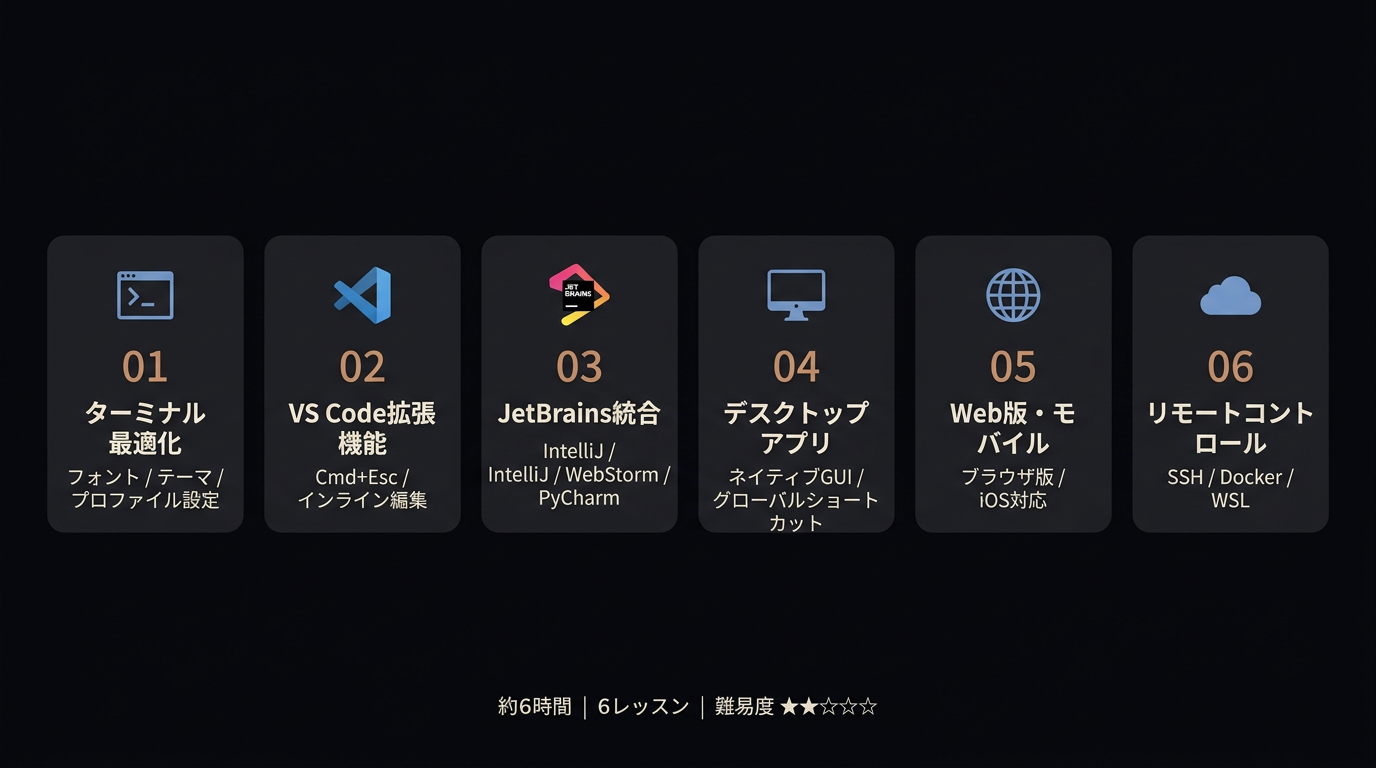
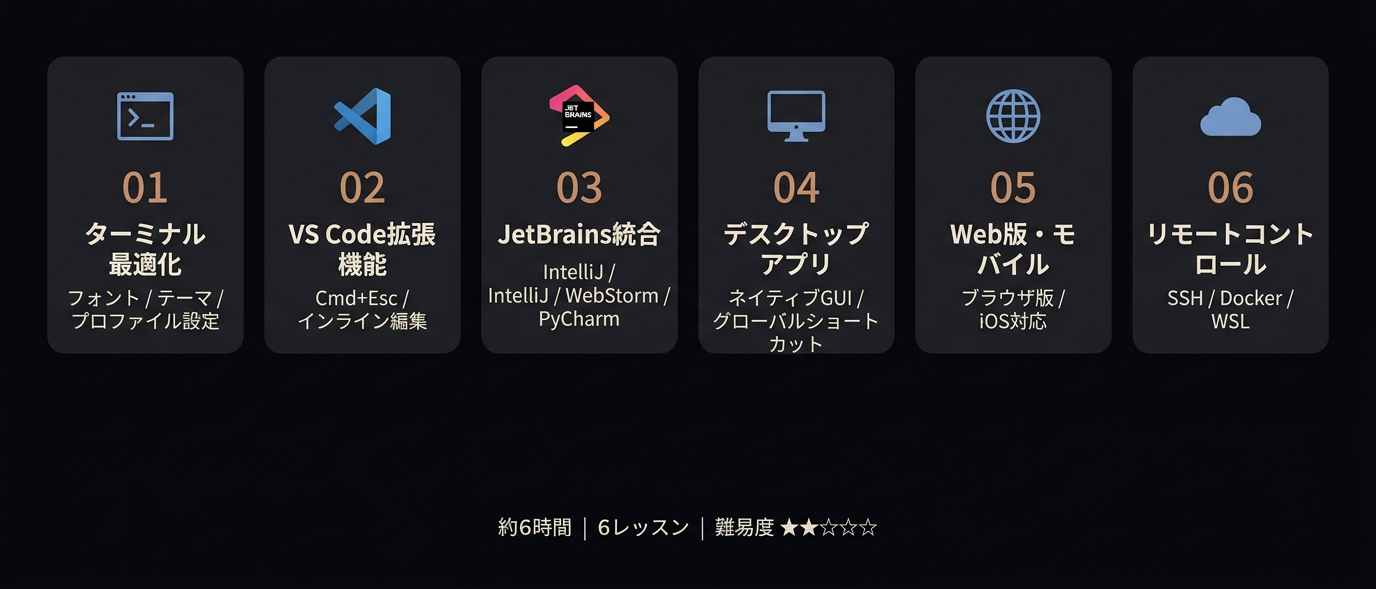
fix: Week 03ヒーローバナーを21:9に統一し、Week 01-03のバランスを揃える
Week 03は1行レイアウト（6枚横並び）のため、Week 01-02と同じ21:9クロップに変更。
Image heightの条件をweek.number <= 3で判定するよう修正。

Changed region(s): [[0.0312, 0.0917, 0.9688, 0.7029], [0.3438, 0.8557, 0.6562, 0.9474]]

diff --git a/site/src/app/week/[weekId]/page.tsx b/site/src/app/week/[weekId]/page.tsx
@@ -56,7 +56,7 @@ export default async function WeekPage({ params }: Props) {
             src={`/images/week-${weekId}-hero.png`}
             alt={`Week ${weekId}: ${week.title}`}
             width={1376}
-            height={week.lessons.length <= 5 ? 589 : 768}
+            height={week.number <= 3 ? 589 : 768}
             className="w-full h-auto"
             priority
           />
